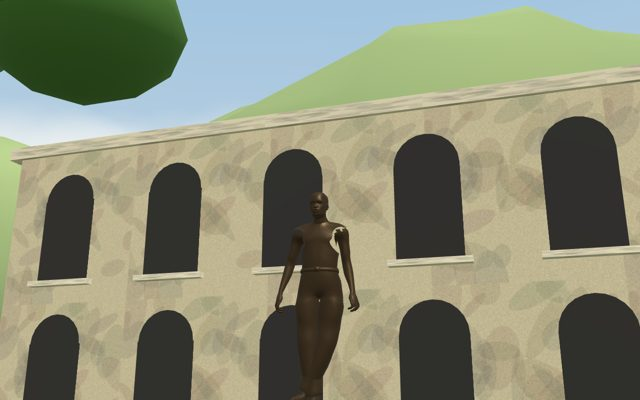
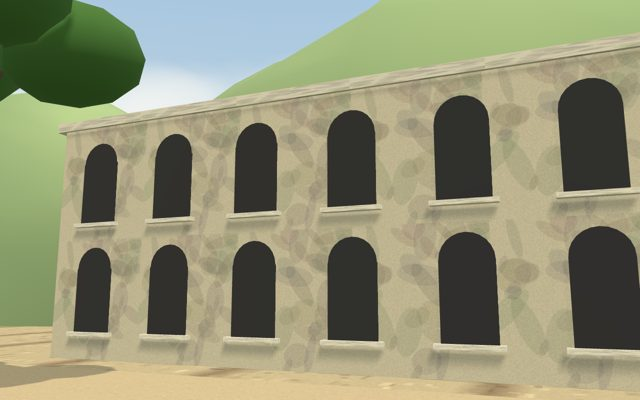
Morant Bay: the cave and rock face one formation (audit 0), the 2026 picture remade without the statue
Claude-Session: https://claude.ai/code/session_0132LeDxnnBd1yGPLzWGdjjP

diff --git a/games/_morant-bay/src/places.js b/games/_morant-bay/src/places.js
@@ -328,11 +328,19 @@ function gut() {
   Q.reveal.drill = () => {};
   point(Q, "drill", 7.6, -1.0, "the fence");
   /* the cave in the limestone, north-west */
-  add(Q, caveMouth(4), CAVE.x, CAVE.z - 1.2);
   wall(Q, CAVE.x, CAVE.z - 2.6, 6.4, 1.6);
   /* the limestone the cave runs into: a low face of grey rock behind the mouth, and woods on the slope beyond (a smooth hill stood here and read
      as a green blob behind the village, owner 23 November 2026) */
-  for (const [dx, dz, sz, h, sd] of [[-3.6, -5.6, 4.2, 3.4, 41], [0.4, -6.4, 4.8, 4.2, 42], [4.2, -5.4, 3.6, 2.8, 43]]) add(Q, S.outcrop(sz, h, sd), CAVE.x + dx, CAVE.z + dz);
+  const rockFace = grp();   /* one formation: the cave mouth and the rock round it (its stones lie into each other, as rock does) */
+  const cm = caveMouth(4);
+  cm.position.set(0, 0, -1.2);
+  rockFace.add(cm);
+  for (const [dx, dz, sz, h, sd] of [[-3.6, -5.6, 4.2, 3.4, 41], [0.4, -6.4, 4.8, 4.2, 42], [4.2, -5.4, 3.6, 2.8, 43]]) {
+    const o = S.outcrop(sz, h, sd);
+    o.position.set(dx, 0, dz);
+    rockFace.add(o);
+  }
+  add(Q, rockFace, CAVE.x, CAVE.z);
   wall(Q, CAVE.x + 0.3, CAVE.z - 5.8, 11, 2.6);
   for (const [dx, dz, h, sd] of [[-6, -9, 8, 51], [-1, -10.5, 9, 52], [4, -9.4, 7.5, 53], [8, -11, 8.5, 54], [-9, -12.5, 9, 55]]) add(Q, tree(h, sd, 1), CAVE.x + dx, CAVE.z + dz);
   point(Q, "cave", CAVE.x + 0.2, CAVE.z + 0.6, "the cave");
